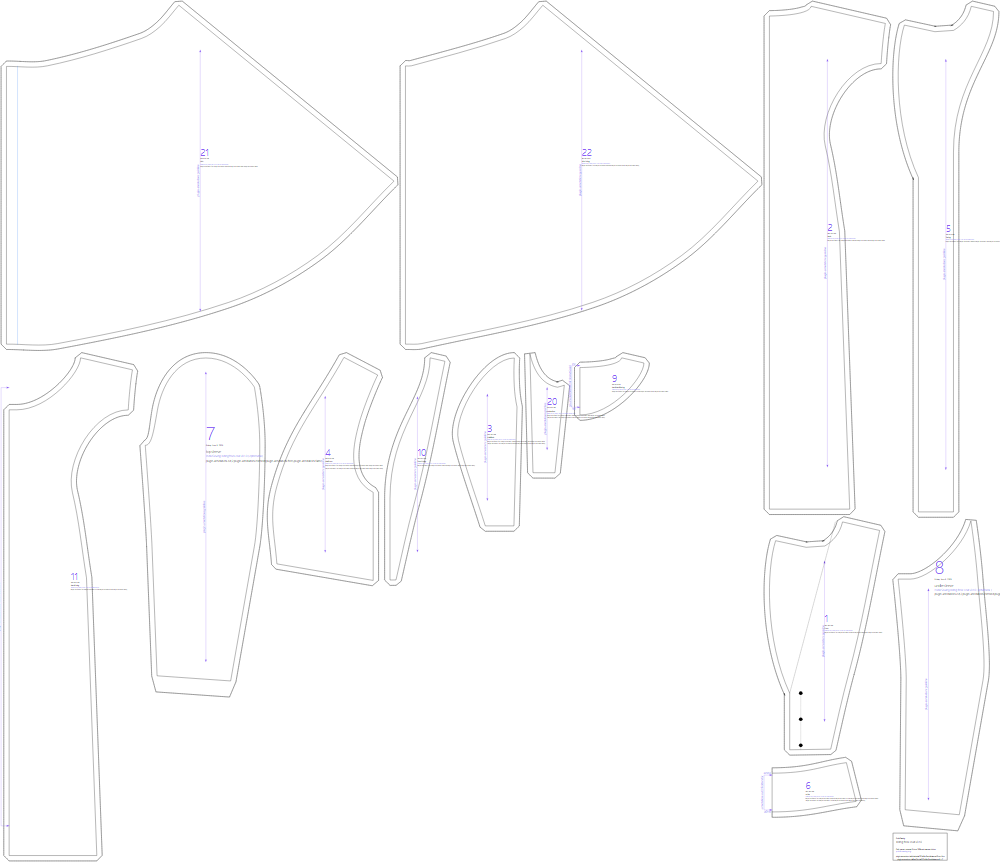
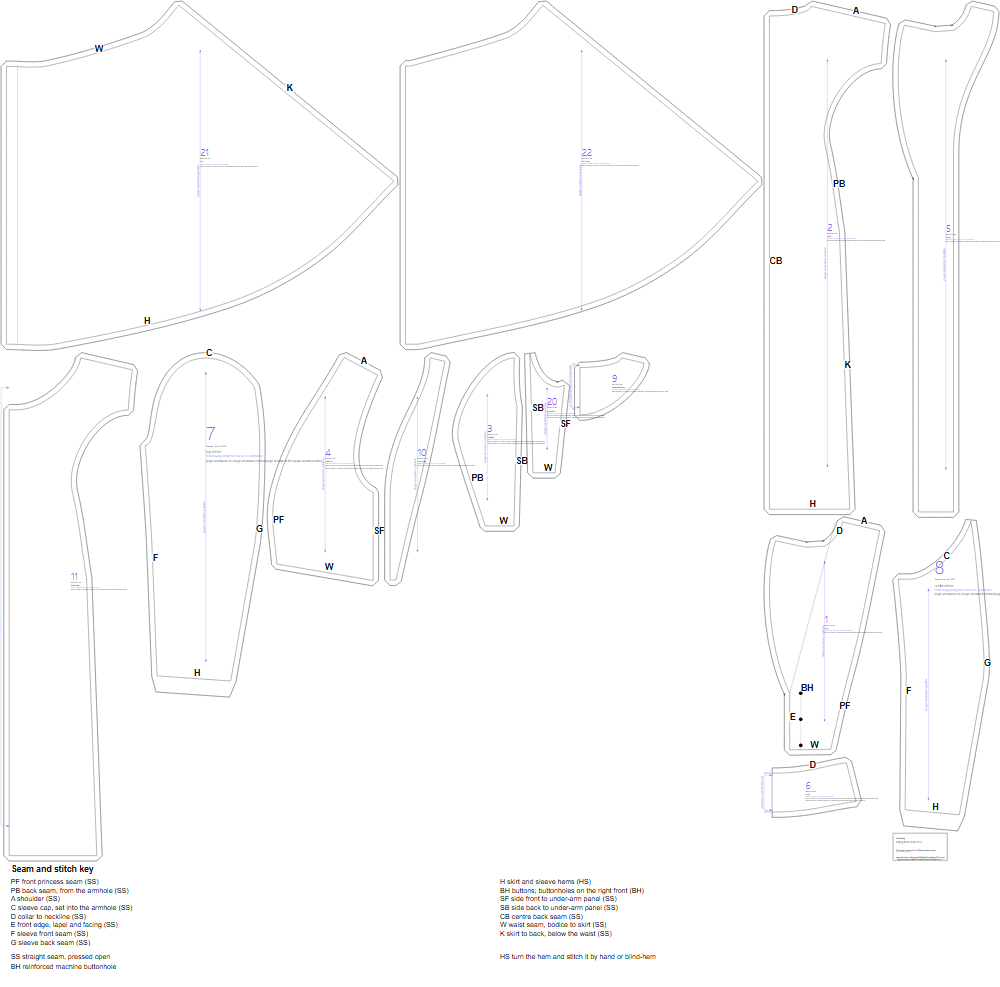
Map the fitted jacket's four descendants and number their steps
Double-dart jacket (and the riding habit coat on it): the fitted jacket's
map with the middle front between two front seams (PM). Prince Albert
jacket and riding frock coat: cut at the waist (W), the one-piece skirt
joined to the back below it (K), a separate collar. No pockets on any.

diff --git a/designs/double-dart-jacket/BRIEF.md b/designs/double-dart-jacket/BRIEF.md
@@ -45,8 +45,8 @@ under-arm, side back, back (all cut 2), facing, back-neck facing, top and under 
 ## Construction
 Proposed making-up order for this unsewn draft:
 
-1. Join each front, middle front and side front in that order, matching the bust notches. Join the side backs to the backs and the under-arm panels between the front and back assemblies. Sew the centre-back seam.
-2. Close the shoulder seams. Join the shawl collar at centre back and sew its neck edge to the back neckline.
-3. Join the facings and their shawl collar at centre back. Sew them to the front edges and outer collar, turn and press.
-4. Sew each top and under sleeve together, then set the sleeves into the armholes, including the under-arm panels at their lower edges.
-5. Assemble and attach the lining to the facings. Finish the jacket and sleeve hems, then work the front buttonholes and sew on the buttons. This draft has no pockets.
+1. Join each front to its middle front at the PF seam and the middle front to the side front at the PM seam, matching the bust notches. Join the side backs to the backs at PB, the under-arm panels between the front and back assemblies at SF and SB, and sew the CB centre-back seam.
+2. Close the A shoulder seams. Join the shawl collar at centre back and sew its neck edge to the back neckline at D.
+3. Join the facings and their shawl collar at centre back. Sew them to the front edges and outer collar at E, turn and press.
+4. Sew each top and under sleeve together at the F front and G back seams, then set the sleeves into the armholes at C, including the under-arm panels at their lower edges.
+5. Assemble and attach the lining to the facings. Finish the H jacket and sleeve hems, then work the BH front buttonholes and sew on the buttons. This draft has no pockets.

diff --git a/designs/prince-albert-jacket/BRIEF.md b/designs/prince-albert-jacket/BRIEF.md
@@ -53,14 +53,13 @@ facing; collar; two-piece sleeve; lining for the front, back and skirt (side pan
 cut in lining too).
 
 ## Construction
-1. Front to side front, side back to under-arm panel, under-arm panel to side front.
-2. Bodice to skirt at the waist seam, matching the skirt's seam ends to the bodice's.
-3. The back seam, from the armhole down to the waist (back to side back); CB seam to the top of the vent.
-4. Pleat: the back's extension and the skirt's together, pressed under, the rest of that seam
-   closed to the waist. Vent extensions lapped.
-5. Shoulders, collar, facings, as the tailored jacket.
-6. Sleeves: the two pieces together, then set in.
-7. Lining, hems, buttons.
+1. Join the front to the side front at PF, the side back to the under-arm panel at SB, and the under-arm panel to the side front at SF.
+2. Sew the bodice to the skirt at the W waist seam, matching the skirt's seam ends to the bodice's.
+3. Sew the PB back seam from the armhole down to the waist, and the CB seam to the top of the vent.
+4. Join the skirt to the back below the waist at K: the back's pleat extension and the skirt's together, pressed under, the rest of the seam closed to the waist. Lap the vent extensions.
+5. Close the A shoulders, sew the collar to the neckline at D, then the facings to the fronts and lapels at E, as the tailored jacket.
+6. Join each two-piece sleeve at its F front and G back seams, then set it into the armhole at C.
+7. Line the jacket, finish the H skirt and sleeve hems, work the BH buttonholes and sew on the buttons.
 
 ## Changes and what isn't modelled
 - **The ¼ in at 28 and 29 is left out.** Back and side back share one point on the chest line and

diff --git a/designs/riding-frock-coat/BRIEF.md b/designs/riding-frock-coat/BRIEF.md
@@ -56,8 +56,8 @@ Front, side front, under-arm, side back and back (each cut 2), skirt (cut 2), fa
 collar, top and under sleeves; front, back and skirt lining.
 
 ## Construction
-1. Sew the upper panels.
-2. Join the skirt to the upper coat at the waist, matching the division marks.
-3. Shoulders; collar and facings, the lapels turned back on the roll line.
-4. Make and set the two-piece sleeves; line the coat and skirt.
-5. Hem, buttonholes and buttons.
+1. Sew the upper panels: the front to the side front at PF, the side front and side back to the under-arm panel at SF and SB, the PB back seam and the CB seam.
+2. Join the skirt to the upper coat at the W waist seam, matching the division marks, and to the back below the waist at K.
+3. Close the A shoulders; sew the collar to the neckline at D and the facings to the fronts at E, the lapels turned back on the roll line.
+4. Make the two-piece sleeves at their F front and G back seams and set them at C; line the coat and skirt.
+5. Finish the H hems, work the BH buttonholes and sew on the buttons.

diff --git a/designs/riding-habit-coat/BRIEF.md b/designs/riding-habit-coat/BRIEF.md
@@ -58,8 +58,7 @@ Front, middle front, side front, under-arm, side back and back (each cut 2), fac
 top and under sleeves, front and back lining.
 
 ## Construction
-1. Sew the body panels, matching the waist notches; the seams below the waist are trued to equal length.
-2. Shoulders; collar and facings; lining.
-3. Make and set the two-piece sleeves.
-4. Hem, then buttonholes on the right front and buttons on the left. Try the length in the saddle, or
-   seated astride, before hemming.
+1. Sew the body panels at PF, PM, PB, SF, SB and the CB seam, matching the waist notches; the seams below the waist are trued to equal length.
+2. Close the A shoulders; attach the collar at D and the facings at E; then the lining.
+3. Make the two-piece sleeves at their F front and G back seams and set them at C.
+4. Finish the H hems, then work the BH buttonholes on the right front and sew buttons on the left. Try the length in the saddle, or seated astride, before hemming.
